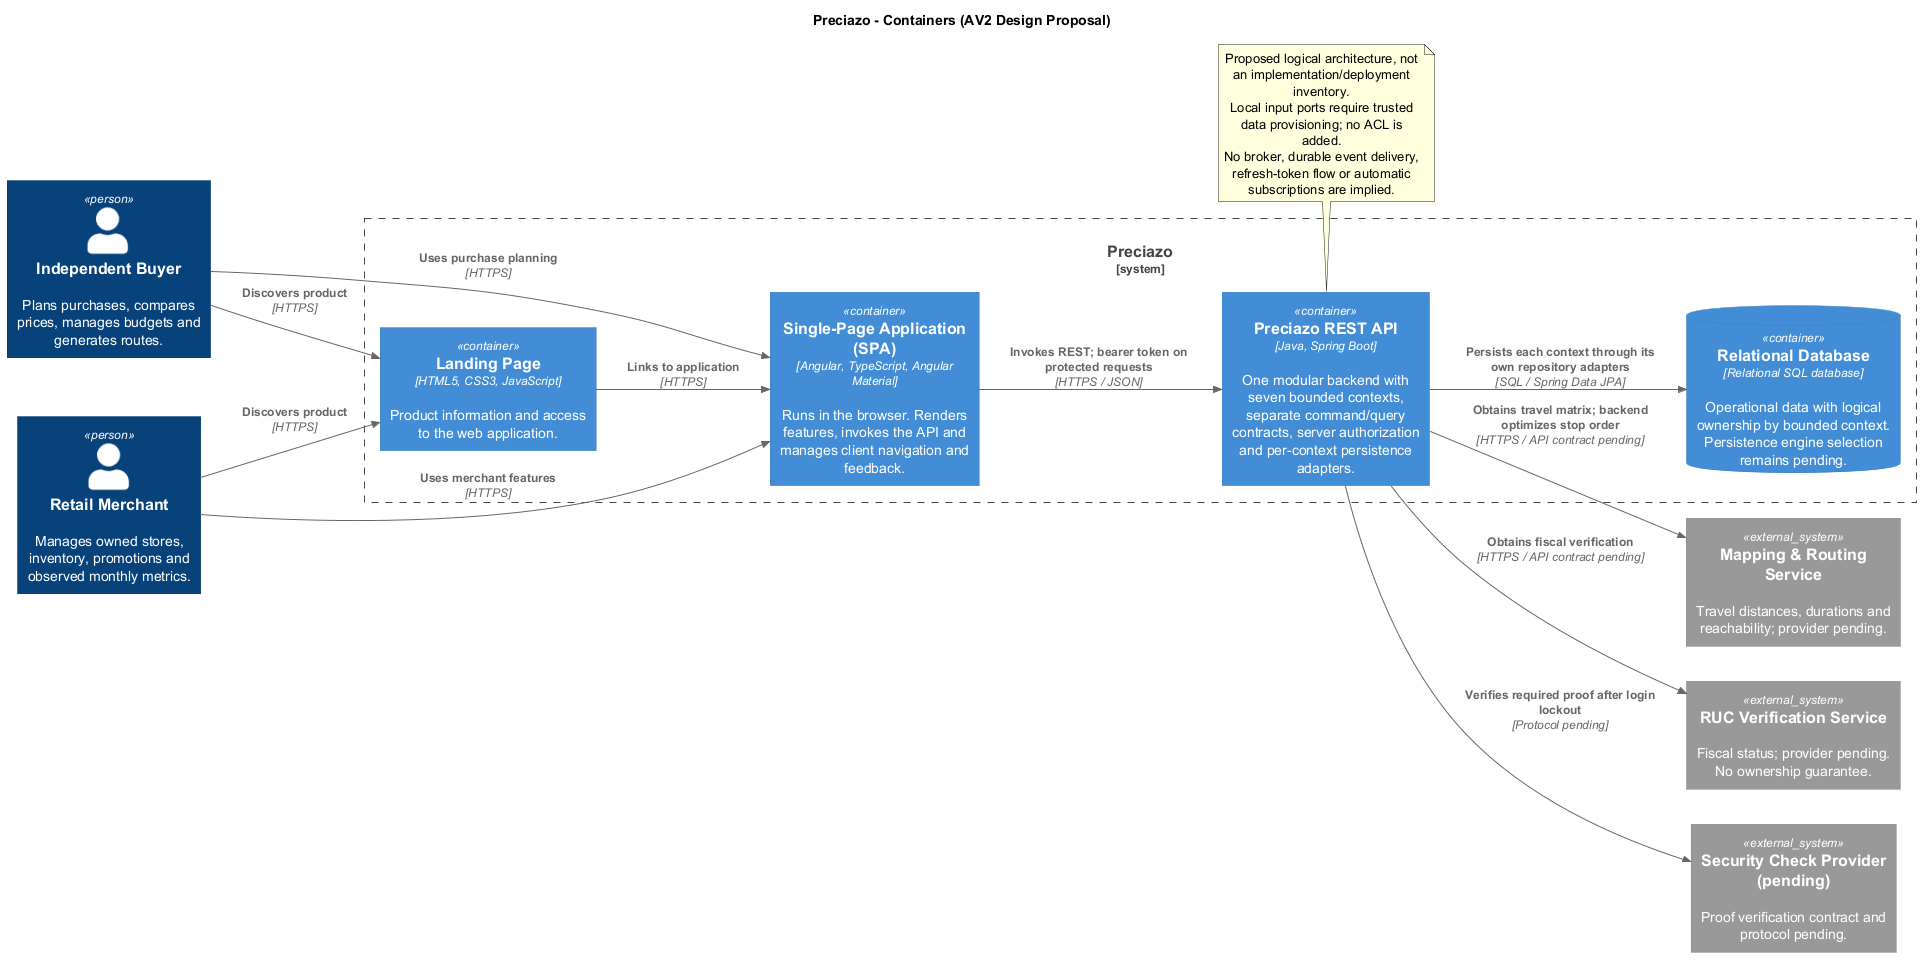
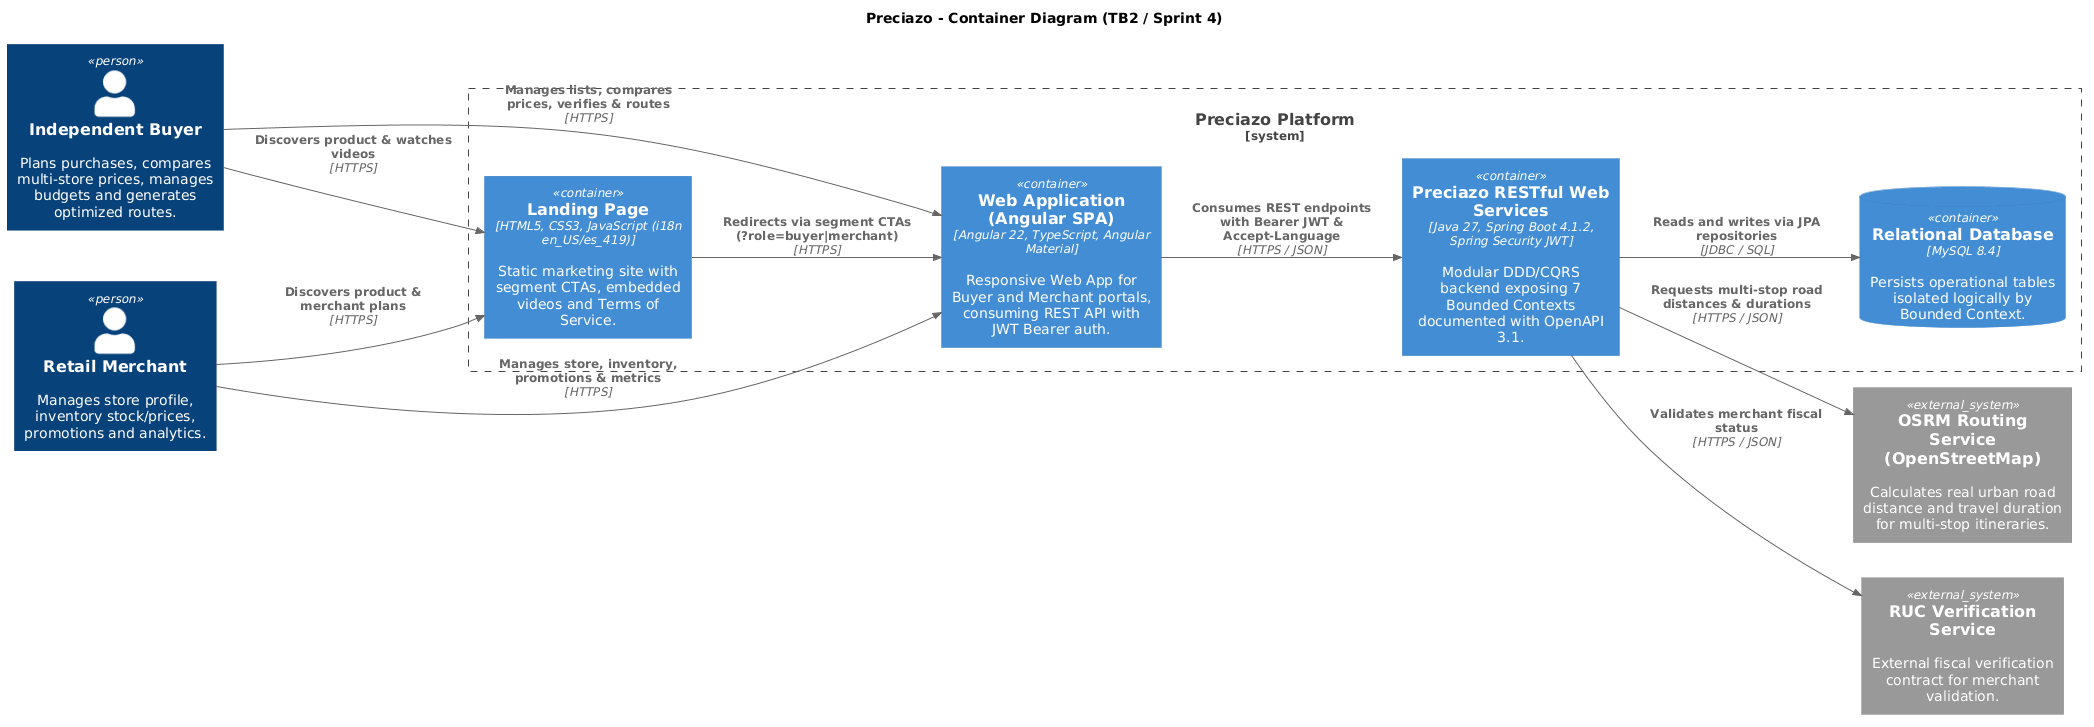
docs(architecture): render and embed c4 container and 7 bounded context component diagrams

diff --git a/docs/informe.md b/docs/informe.md
@@ -1943,6 +1943,27 @@ Para subsanar la granularidad arquitectónica a nivel de componentes, cada uno d
 | 6 | **Analytics and Engagement** | Soporte | [`c4-components-analytics.puml`](./architecture/components/c4-components-analytics.puml) | `AnalyticsController`, puertos de consulta hacia `MerchantManagementService` y `PriceVerificationService` |
 | 7 | **Identity and Access (IAM)** | Genérico | [`c4-components-iam.puml`](./architecture/components/c4-components-iam.puml) | `AuthenticationController`, `UsersController`, `RolesController`, `UserCommandServiceImpl`, `WebSecurityConfiguration`, `BearerAuthorizationRequestFilter`, `JwtTokenService`, `BCryptHashingService` |
 
+##### 1. Catalog and Pricing — Component Diagram
+![C4 Component Diagram — Catalog and Pricing](../assets/architecture/components/c4-components-catalog.png)
+
+##### 2. Route Planning — Component Diagram
+![C4 Component Diagram — Route Planning](../assets/architecture/components/c4-components-routing.png)
+
+##### 3. Shopping Planning — Component Diagram
+![C4 Component Diagram — Shopping Planning](../assets/architecture/components/c4-components-shopping.png)
+
+##### 4. Merchant Management — Component Diagram
+![C4 Component Diagram — Merchant Management](../assets/architecture/components/c4-components-merchant.png)
+
+##### 5. Community Price Verification — Component Diagram
+![C4 Component Diagram — Community Price Verification](../assets/architecture/components/c4-components-verification.png)
+
+##### 6. Analytics and Engagement — Component Diagram
+![C4 Component Diagram — Analytics and Engagement](../assets/architecture/components/c4-components-analytics.png)
+
+##### 7. Identity and Access (IAM) — Component Diagram
+![C4 Component Diagram — Identity and Access](../assets/architecture/components/c4-components-iam.png)
+
 Las dependencias funcionales entre contextos se documentan como coordinación pendiente. No se dibujan como llamadas o suscripciones ya resueltas. Cada puerto de entrada y referencia pertenece al contexto consumidor; no existe un proveedor global compartido de modelos de dominio.
 
 | Contexto consumidor | Datos o coordinación necesarios | Estado del diseño AV2 |
